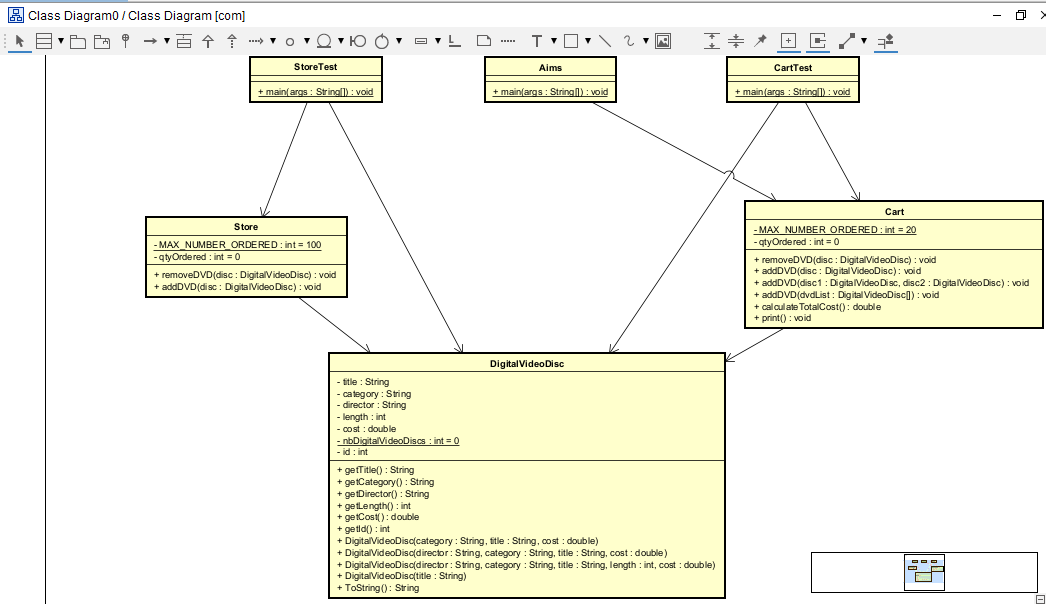
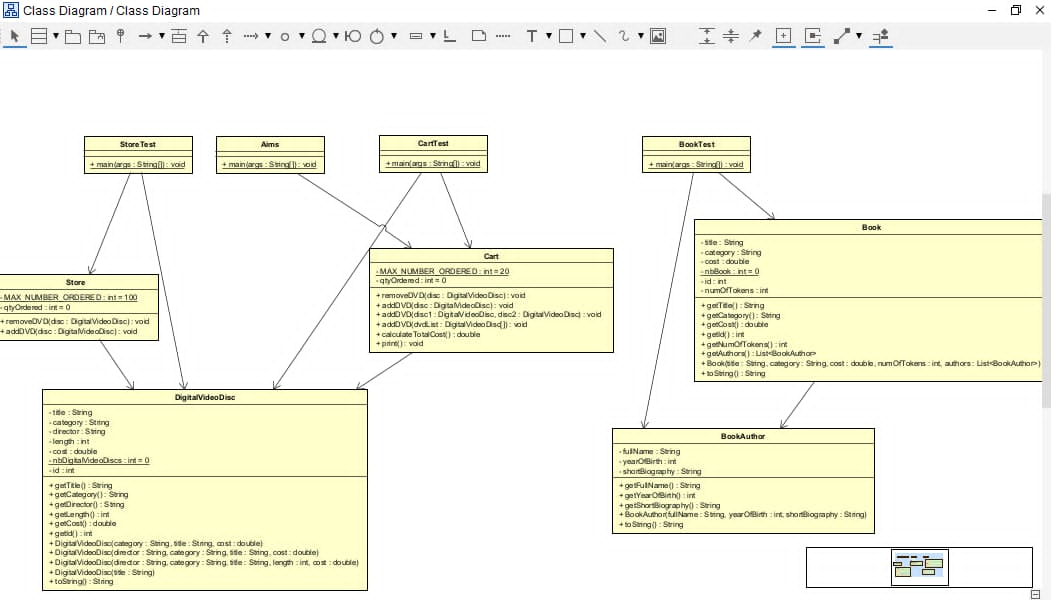
Book and BookTest

diff --git a/AimsProject/src/com/hust/kstn/models/Book.java b/AimsProject/src/com/hust/kstn/models/Book.java
@@ -1,0 +1,55 @@
+package com.hust.kstn.models;
+import java.util.*;
+public class Book {
+	private String title;
+	private String category;
+	private double cost;
+	private static int nbBook=0;
+	private int id;
+	private List<BookAuthor> authors = new ArrayList<>();
+	private int numOfTokens;
+	
+	public String getTitle() {
+		return title;
+	}
+	
+	public String getCategory() {
+		return category;
+	}
+	
+	public double getCost() {
+		return cost;
+		
+	}
+	public int getId() {
+		return id;
+	}
+	
+	public int getNumOfTokens()
+	{
+	return numOfTokens;
+	}
+	
+	public List<BookAuthor> getAuthors() {
+	    return new ArrayList<BookAuthor>(authors); 
+	}
+	
+	public Book(String title, String category, double cost, int numOfTokens, List<BookAuthor> authors)
+	{
+		this.title=title;
+		this.category=category;
+		this.cost=cost;
+		this.numOfTokens=numOfTokens;
+		this.authors=new ArrayList<BookAuthor>(authors);
+		this.id=++nbBook;
+	}
+	
+	public String toString() {
+		 return "Book[" + this.id + "]["
+		 + this.title + "]["
+		 + this.cost + "]["
+		 + this.category + "]["
+		 + this.numOfTokens + "]"
+		 + "\nAuthors: " + this.authors;
+		}
+}

diff --git a/AimsProject/src/com/hust/kstn/test/BookTest.java b/AimsProject/src/com/hust/kstn/test/BookTest.java
@@ -1,0 +1,29 @@
+package com.hust.kstn.test;
+
+import java.util.*;
+
+import com.hust.kstn.models.*;
+
+public class BookTest {
+	public static void main(String []args)
+	{
+		BookAuthor gs1= new BookAuthor("Christopher Nolan", 1980, "Professor");
+		BookAuthor gs2= new BookAuthor("James Cameron", 1982, "Data Scientis");
+		BookAuthor gs3= new BookAuthor("Peter Jackson", 1983, "Nobel Winner");
+		BookAuthor gs4= new BookAuthor("Anthony Russo", 2000, "PhD in CS");
+		BookAuthor gs5= new BookAuthor("George Lucas", 2006, "AI Researcher");
+		
+		List<BookAuthor> authors1=new ArrayList<>();
+		authors1.add(gs1);
+		authors1.add(gs2);
+		authors1.add(gs5);
+		Book book1 = new Book("Artificial Intelligence: A Modern Approach", "Science", 80.00, 1200, authors1);
+		System.out.println(book1.toString());
+		
+		List<BookAuthor> authors2=new ArrayList<>();
+		authors2.add(gs3);
+		authors2.add(gs4);
+		Book book2 = new Book("The Great Gatsby", "Romance", 15.00, 180, authors2);
+		System.out.println(book2.toString());
+	}
+}

diff --git a/AimsProject/src/com/hust/kstn/models/BookAuthor.java b/AimsProject/src/com/hust/kstn/models/BookAuthor.java
@@ -1,0 +1,37 @@
+package com.hust.kstn.models;
+
+public class BookAuthor {
+
+	private String fullName;
+	private int yearOfBirth;
+	private String shortBiography;
+	
+	public String getFullName()
+	{
+	return fullName;
+	}
+	
+	public int getYearOfBirth()
+	{
+	return yearOfBirth;
+	}
+	
+	public String getShortBiography()
+	{
+	return shortBiography;
+	}
+	
+	public BookAuthor(String fullName, int yearOfBirth, String shortBiography)
+	{
+	this.fullName=fullName;
+	this.yearOfBirth=yearOfBirth;
+	this.shortBiography=shortBiography;
+	}
+	
+	public String toString() {
+		 return this.fullName + " ("
+		 + this.yearOfBirth + ", "
+		 + this.shortBiography + ")\n";
+		}
+
+}
